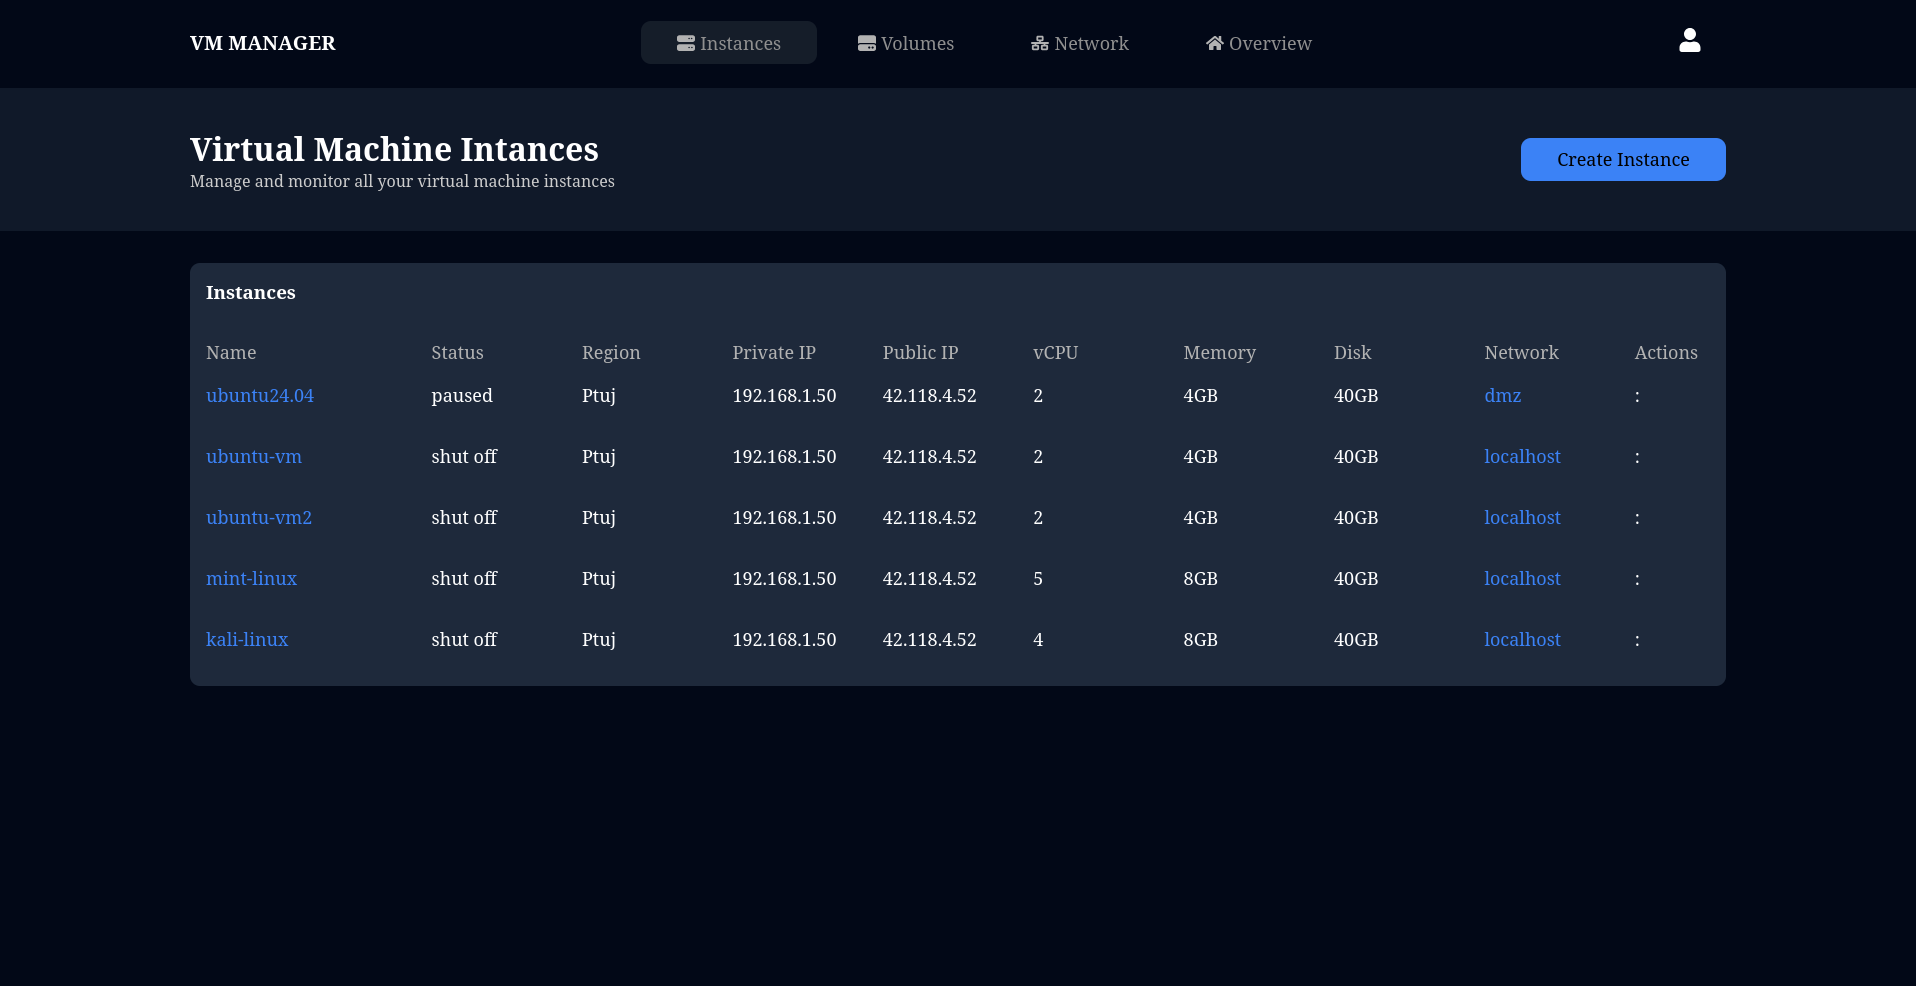
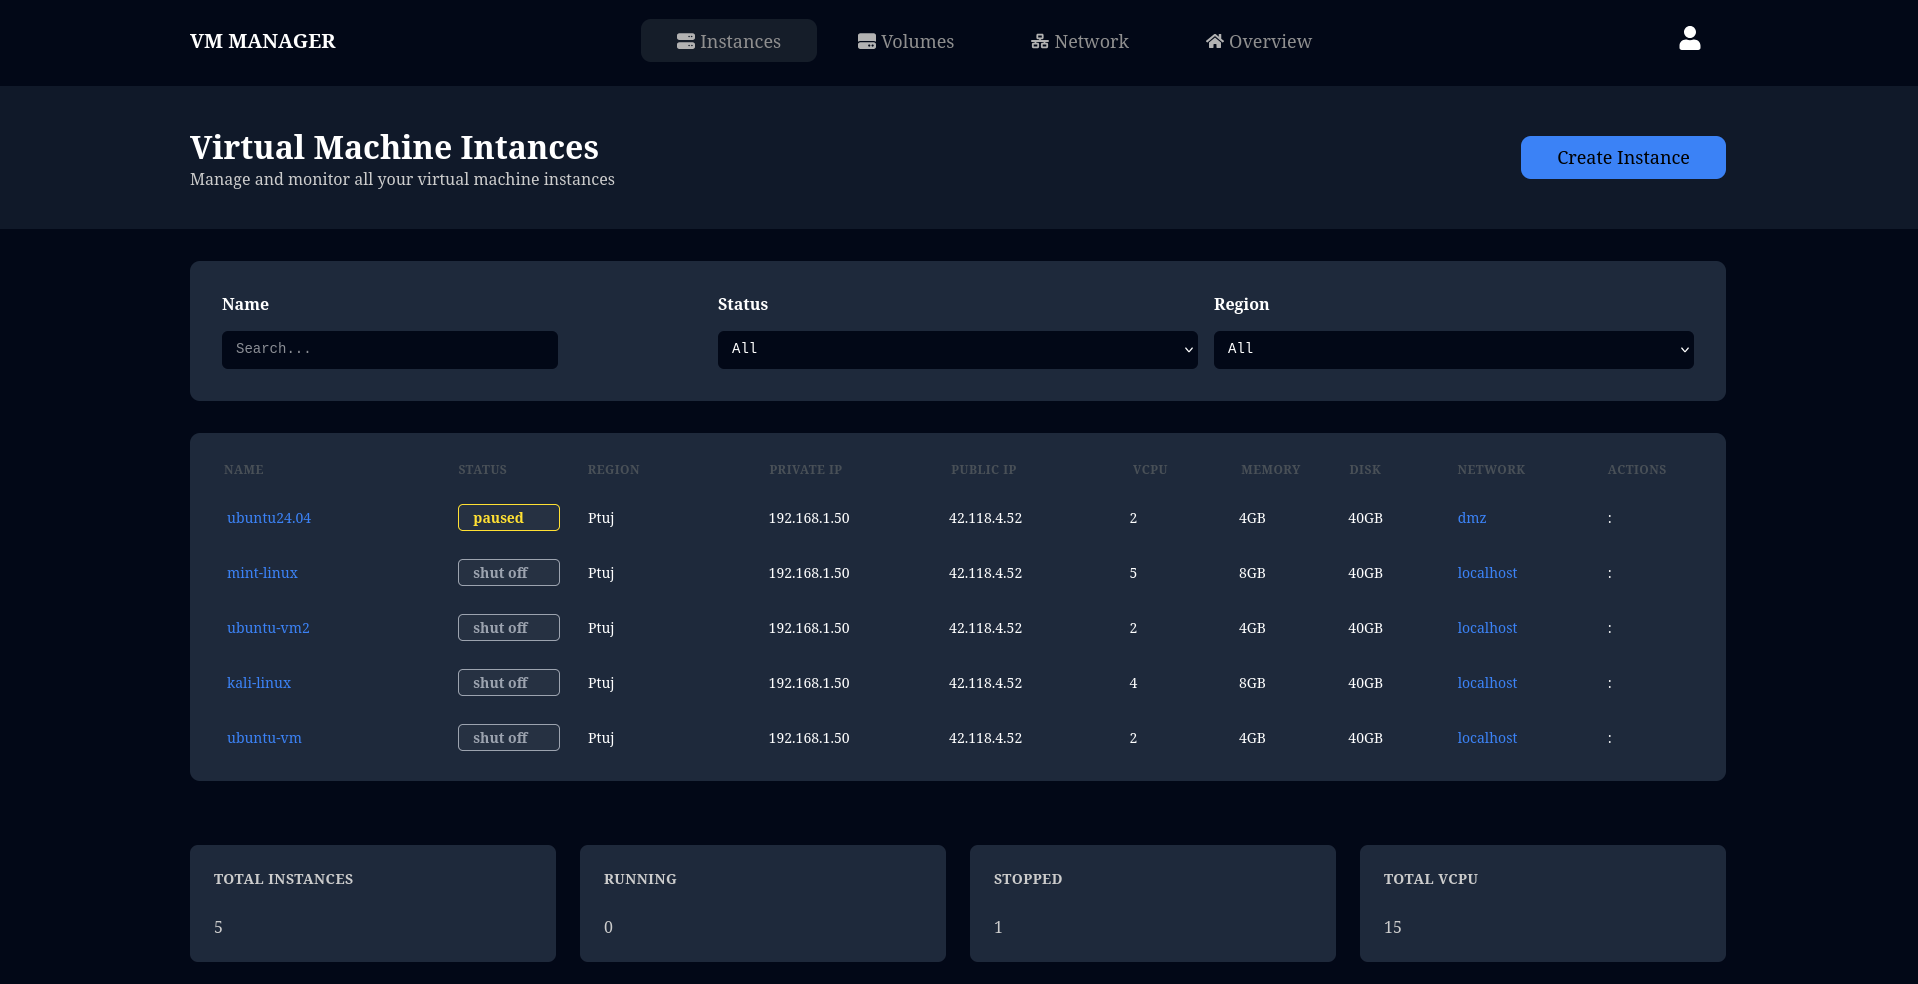
updated dashboard ui

diff --git a/web/src/pages/DashBoard/DashBoard.jsx b/web/src/pages/DashBoard/DashBoard.jsx
@@ -1,6 +1,9 @@
 import InstanceCard from "../../components/InstanceCard/InstanceCard";
+import DashboardContainer from "../../components/DashboardContainer/DashboardContainer";
+import Filter from "../../components/Filter/Filter"
 import "./DashBoard.css"
 import { useState, useEffect } from "react";
+
 
 
 function DashBoard() {
@@ -70,9 +73,9 @@ function DashBoard() {
         </div>
       </div>
       <div className="DashBoard-filters">
+        <Filter />
       </div>
       <div className="DashBoard-instances">
-        <h3>Instances</h3>
         <div className="DashBoard-menu">
           <div>Name</div>
           <div>Status</div>
@@ -92,6 +95,12 @@ function DashBoard() {
             )
           })}
         </div>
+      </div>
+      <div className="DashBoard-containers">
+        <DashboardContainer box={{ type: "Total Instances", data: "5" }} />
+        <DashboardContainer box={{ type: "Running", data: "0" }} />
+        <DashboardContainer box={{ type: "Stopped", data: "1" }} />
+        <DashboardContainer box={{ type: "Total vCPU", data: "15" }} />
       </div>
     </div>
   )

diff --git a/web/src/components/Filter/Filter.jsx b/web/src/components/Filter/Filter.jsx
@@ -1,0 +1,38 @@
+import "./Filter.css"
+
+function Filter() {
+  return (
+    <div className="filter">
+      <div className="filter-bar">
+        <div>Name</div>
+        <div>Status</div>
+        <div>Region</div>
+      </div>
+
+      <div className="filter-inputs">
+        <div className="filter-search">
+          <input type="text" className="filter-search-input" placeholder="Search..." />
+        </div>
+
+        <div className="filter-options">
+          <select className="filter-select">
+            <option value="">All</option>
+            <option value="running">Running</option>
+            <option value="stopped">Stopped</option>
+            <option value="paused">Paused</option>
+          </select>
+
+          <select className="filter-select">
+            <option value="">All</option>
+            <option value="us-west">US West</option>
+            <option value="us-east">US East</option>
+            <option value="europe">Europe</option>
+          </select>
+        </div>
+
+      </div>
+    </div>
+  )
+}
+
+export default Filter

diff --git a/web/src/components/Filter/Filter.css b/web/src/components/Filter/Filter.css
@@ -1,0 +1,55 @@
+.filter {
+  width: 80%;
+  margin: 2em auto;
+  padding: 2em;
+  background-color: var(--third);
+  border-radius: 10px;
+}
+
+.filter-bar {
+  display: grid;
+  grid-template-columns: 1fr 1fr 1fr;
+  gap: 1em;
+  margin-bottom: 1em;
+  font-weight: 600;
+  text-align: left;
+}
+
+.filter-inputs {
+  display: grid;
+  grid-template-columns: 1fr 1fr 1fr;
+  gap: 1em;
+  align-items: center;
+}
+
+.filter-search {
+  grid-column: 1;
+}
+
+.filter-search-input {
+  color: #fff;
+  width: 70%;
+  padding: 0.75em 1em;
+  border-radius: 6px;
+  font-size: 14px;
+  outline: none;
+  border: none;
+  background-color: var(--primary);
+}
+
+.filter-options {
+  grid-column: 2 / span 2;
+  display: flex;
+  gap: 1em;
+}
+
+.filter-select {
+  width: 100%;
+  color: var(--text-primary);
+  padding: 0.75em 1em;
+  border-radius: 6px;
+  font-size: 14px;
+  background-color: var(--primary);
+  border: none;
+  outline: none;
+}

diff --git a/web/src/components/InstanceCard/InstanceCard.css b/web/src/components/InstanceCard/InstanceCard.css
@@ -1,10 +1,14 @@
 .InstanceCard-card {
-  font-size: 18px;
   width: 100%;
   display: grid;
-  grid-template-columns: 15% repeat(9, 10%);
-  padding: 1em 0;
-  transition: 0.2s;
+  grid-template-columns: 2fr 1fr 1.5fr 1.5fr 1.5fr 0.8fr 0.8fr 0.8fr 1.2fr 0.8fr;
+  gap: 2em;
+  padding: 1em 1.5em;
+  margin: 0;
+  transition: all 0.2s ease-in-out;
+  align-items: center;
+  font-size: 14px;
+  background-color: var(--third);
   border-radius: 10px;
 }
 
@@ -20,16 +24,26 @@
   cursor: pointer;
 }
 
+.InstanceCard-status {
+  border-radius: 5px;
+  border: 1px solid;
+  padding: 3px 1em;
+  font-weight: 600;
+}
+
 .paused {
-  background-color: yellow;
+  color: #ffe033;
+  background-color: #263142;
 }
 
 .shut-off {
-  background-color: red;
+  color: #9ca3af;
+  background-color: #263142;
 }
 
 .running {
-  background-color: green;
+  color: #22b85b;
+  background-color: #1e393f;
 }
 
 .white {

diff --git a/web/src/components/InstanceCard/InstanceCard.jsx b/web/src/components/InstanceCard/InstanceCard.jsx
@@ -2,12 +2,12 @@ import "./InstanceCard.css"
 
 function InstanceCard({ instance, onClick }) {
   const status = instance.status == 'shut off' ? 'shut-off' : instance.status == 'paused' ? 'paused' : instance.status == 'running' ? 'running' : "white";
-  const classes = `InstanceCard-circle ${status}`
+  const classes = `InstanceCard-status ${status}`
   const ram = Math.floor(instance.ram / 1000000)
   return (
     <div className="InstanceCard-card">
       <div className="InstanceCard-link">{instance.name}</div>
-      <div>{instance.status}</div>
+      <div className={classes}>{instance.status}</div>
       <div>Ptuj</div>
       <div>192.168.1.50</div>
       <div>42.118.4.52</div>

diff --git a/web/src/pages/DashBoard/DashBoard.css b/web/src/pages/DashBoard/DashBoard.css
@@ -30,10 +30,24 @@
 }
 
 .DashBoard-menu {
-  font-size: 18px;
-  width: 100%;
   display: grid;
-  grid-template-columns: 15% repeat(9, 10%);
-  filter: brightness(0.7);
+  grid-template-columns: 2fr 1fr 1.5fr 1.5fr 1.5fr 0.8fr 0.8fr 0.8fr 1.2fr 0.8fr;
+  gap: 2em;
+  padding: 1em 1.5em;
+  font-weight: 600;
+  color: #495057;
+  text-transform: uppercase;
+  font-size: 12px;
+  letter-spacing: 0.5px;
+  align-items: center;
+}
+
+.DashBoard-containers {
+  width: 80%;
+  margin: auto;
+  display: grid;
+  grid-template-columns: repeat(auto-fit, minmax(200px, 1fr));
+  gap: 1.5em;
+  margin-top: 2em;
   padding-top: 2em;
 }

diff --git a/web/src/components/DashboardContainer/DashboardContainer.css b/web/src/components/DashboardContainer/DashboardContainer.css
@@ -1,0 +1,20 @@
+.DashboardContainer {
+  background: var(--third);
+  border-radius: 8px;
+  padding: 1.5em;
+  text-align: left;
+  transition: all 0.2s ease-in-out;
+}
+
+.DashboardContainer:hover {
+  box-shadow: 0 4px 12px rgba(0, 0, 0, 0.1);
+  transform: translateY(-2px);
+}
+
+.DashboardContainer-name {
+  font-size: 14px;
+  font-weight: 600;
+  text-transform: uppercase;
+  letter-spacing: 0.5px;
+  margin-bottom: 2em;
+}

diff --git a/web/src/components/DashboardContainer/DashboardContainer.jsx b/web/src/components/DashboardContainer/DashboardContainer.jsx
@@ -1,0 +1,11 @@
+import "./DashboardContainer.css"
+function DashboardContainer({ box }) {
+  return (
+    <div className="DashboardContainer">
+      <p className="DashboardContainer-name">{box.type}</p>
+      <p>{box.data}</p>
+    </div>
+  )
+}
+
+export default DashboardContainer;
